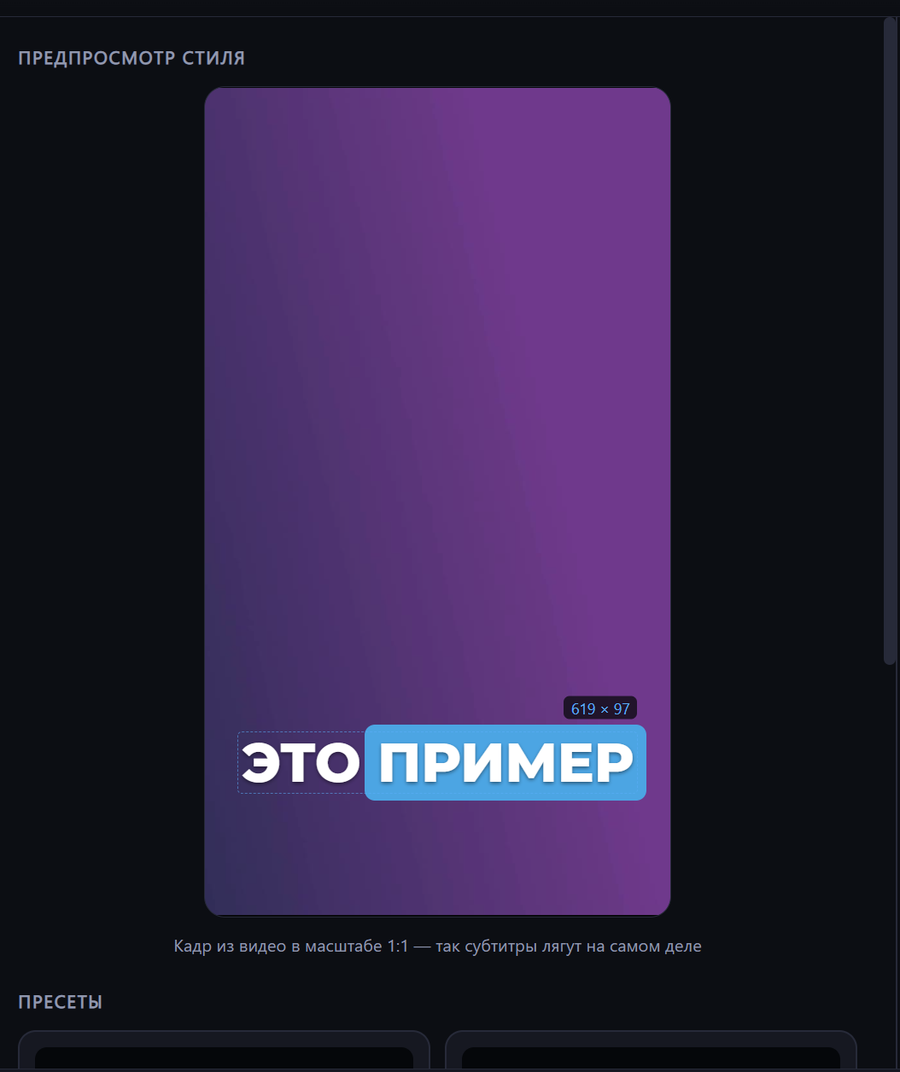
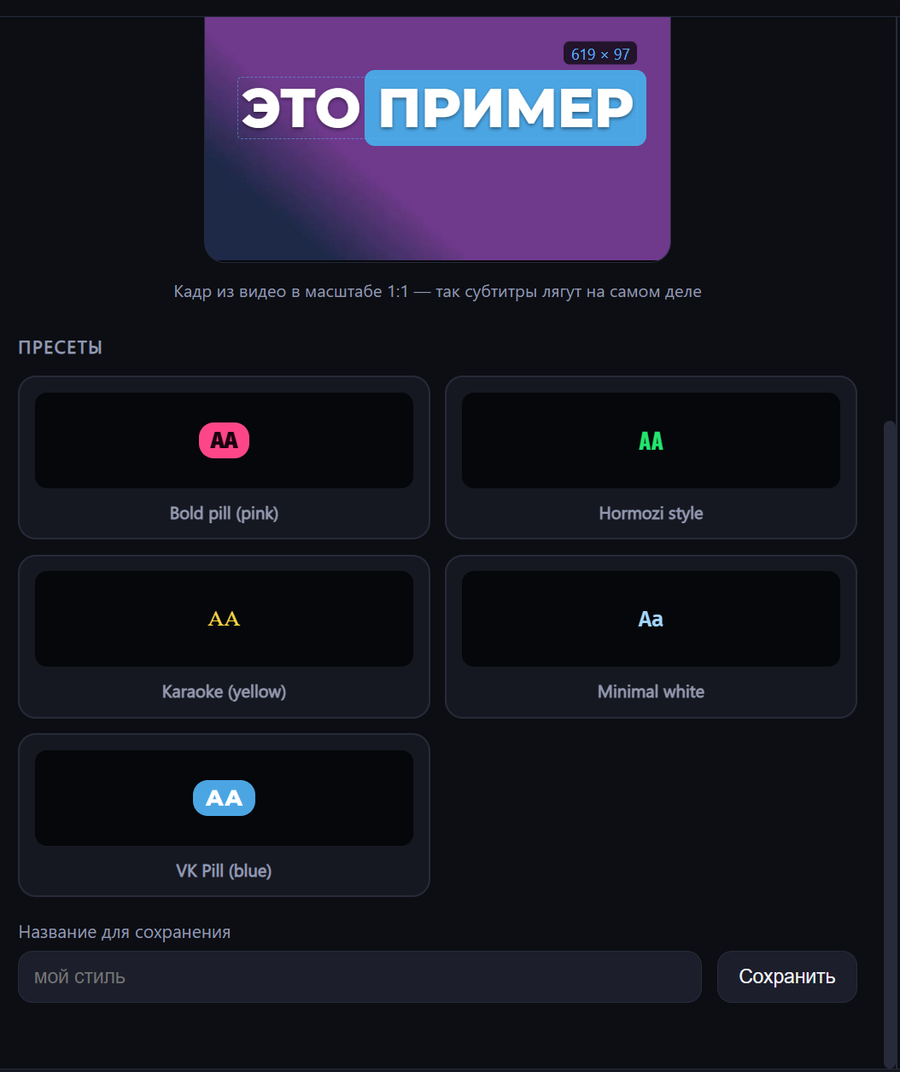
Починены карточки пресетов: цвет и плашка пропадали
Имена шрифтов теперь идут в кавычках, а стиль карточки собирался строкой
внутри style="...". Первая же кавычка обрывала атрибут, и всё после неё -
цвет текста, плашка, регистр - отбрасывалось: карточки выглядели
одинаковыми серыми "Аа".

Стили карточки задаются через DOM, а не разметкой.
Плюс снимок панели пресетов для страницы.

diff --git a/gui/app.js b/gui/app.js
@@ -382,14 +382,28 @@ function renderPresetGrid() {
     const [family, weight] = fontCss(p.font);
     const thumbColor = p.highlight_style === "box" ? p.box_color : p.word_highlight_color;
     card.innerHTML = `
-      <div class="preset-thumb">
-        <span style="font-family:${family}; font-weight:${weight}; font-size:15px; color:${p.text_color}; ${p.highlight_style==='box' ? `background:${thumbColor}; color:${p.active_text_color}; padding:3px 8px; border-radius:${Math.min(p.box_radius,10)}px;` : `color:${thumbColor};`} text-transform:${textCaseOf(p) === 'upper' ? 'uppercase' : textCaseOf(p) === 'lower' ? 'lowercase' : 'none'};">
-          Аа
-        </span>
-      </div>
+      <div class="preset-thumb"><span class="preset-sample">Аа</span></div>
       <div class="preset-name">${p.name || p.filename}</div>
       <button class="preset-del" title="Удалить пресет">×</button>
     `;
+
+    // Styled through the DOM, not inside the markup: font stacks contain
+    // quotes, and those terminate a style="..." attribute early, silently
+    // dropping every declaration after the font name.
+    const sample = card.querySelector(".preset-sample");
+    sample.style.fontFamily = family;
+    sample.style.fontWeight = weight;
+    sample.style.fontSize = "15px";
+    sample.style.textTransform = textCaseOf(p) === "upper" ? "uppercase"
+      : textCaseOf(p) === "lower" ? "lowercase" : "none";
+    if (p.highlight_style === "box") {
+      sample.style.background = thumbColor;
+      sample.style.color = p.active_text_color;
+      sample.style.padding = "3px 8px";
+      sample.style.borderRadius = Math.min(p.box_radius, 10) + "px";
+    } else {
+      sample.style.color = thumbColor;
+    }
     card.addEventListener("click", () => {
       style = Object.assign({}, DEFAULT_STYLE, p);
       applyStyleToControls();
